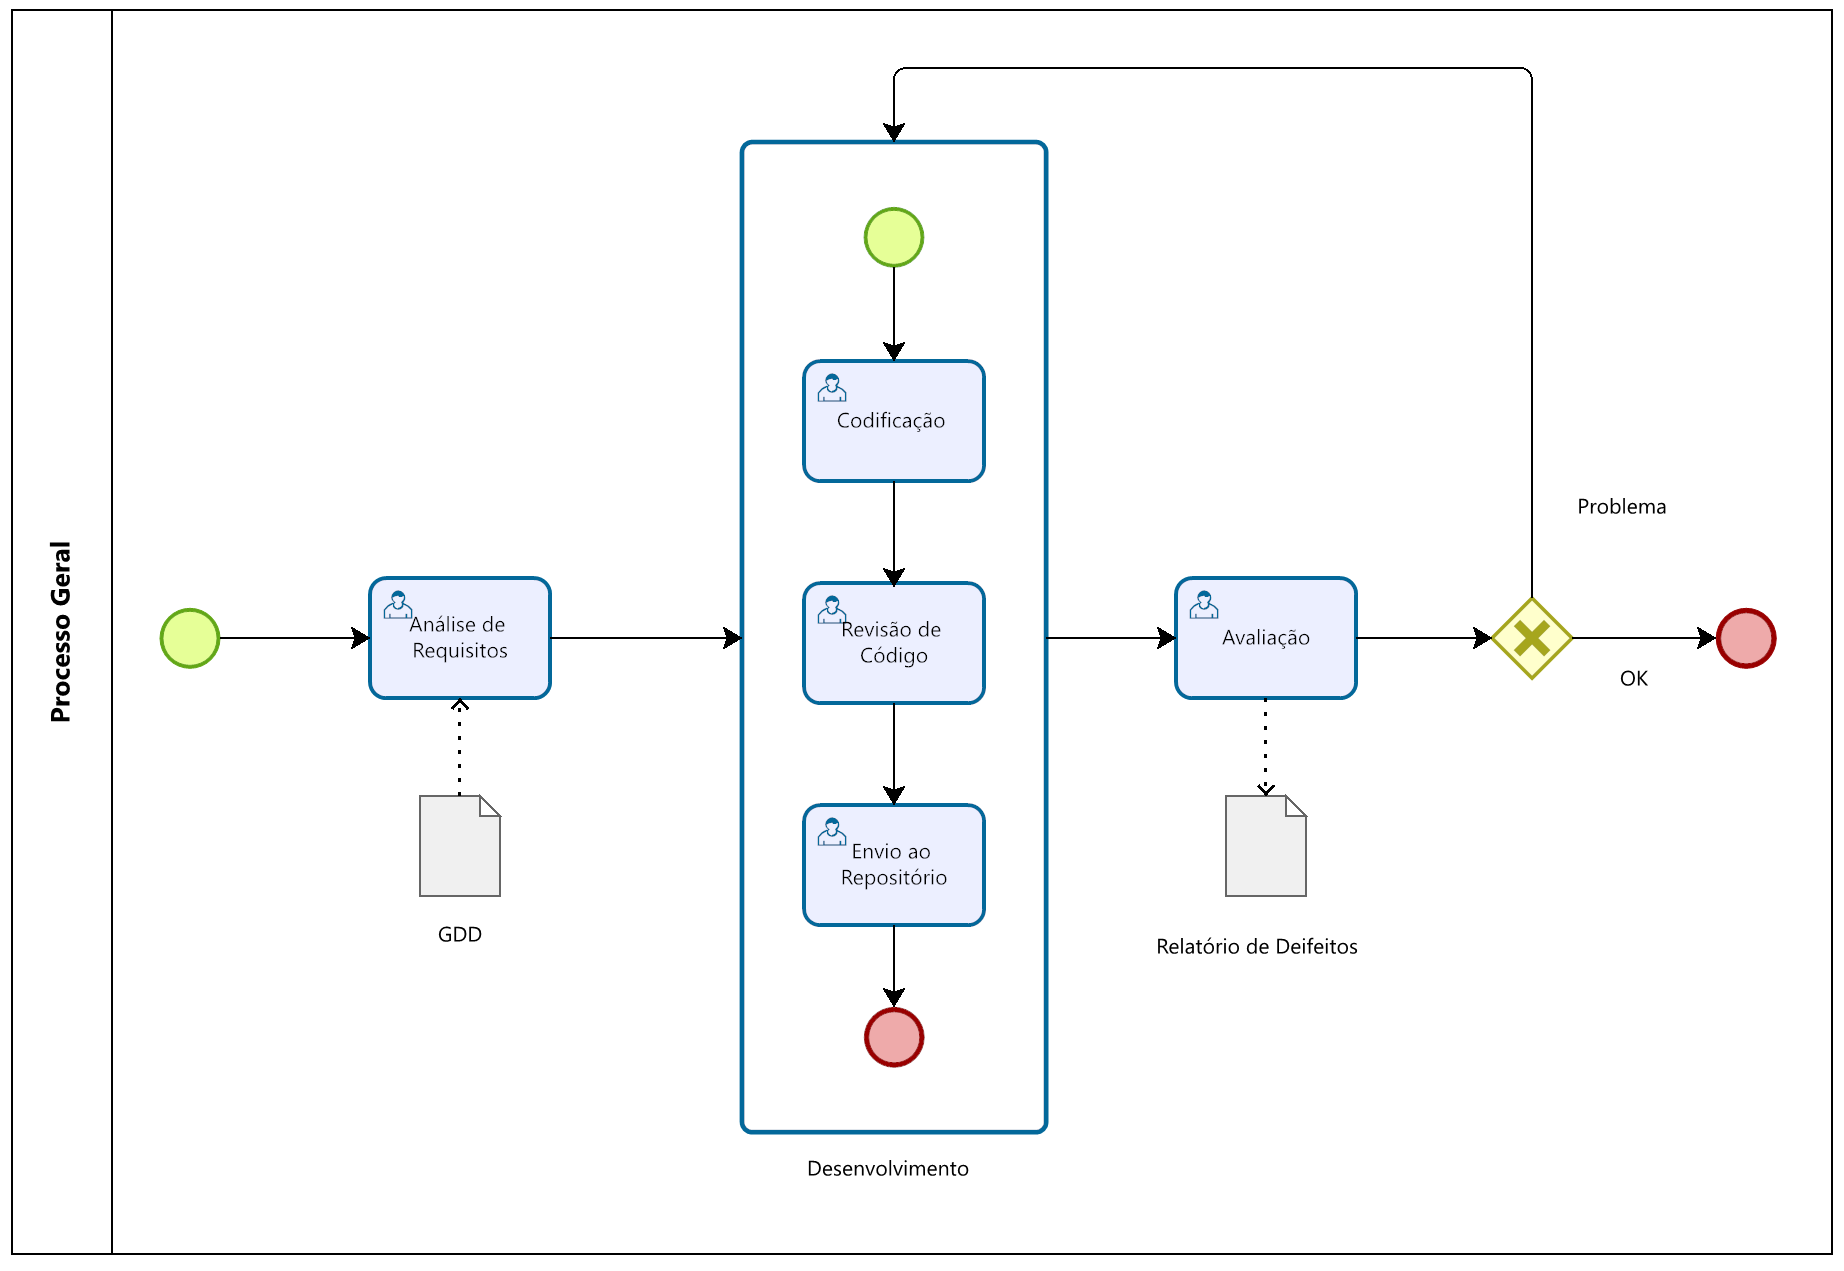
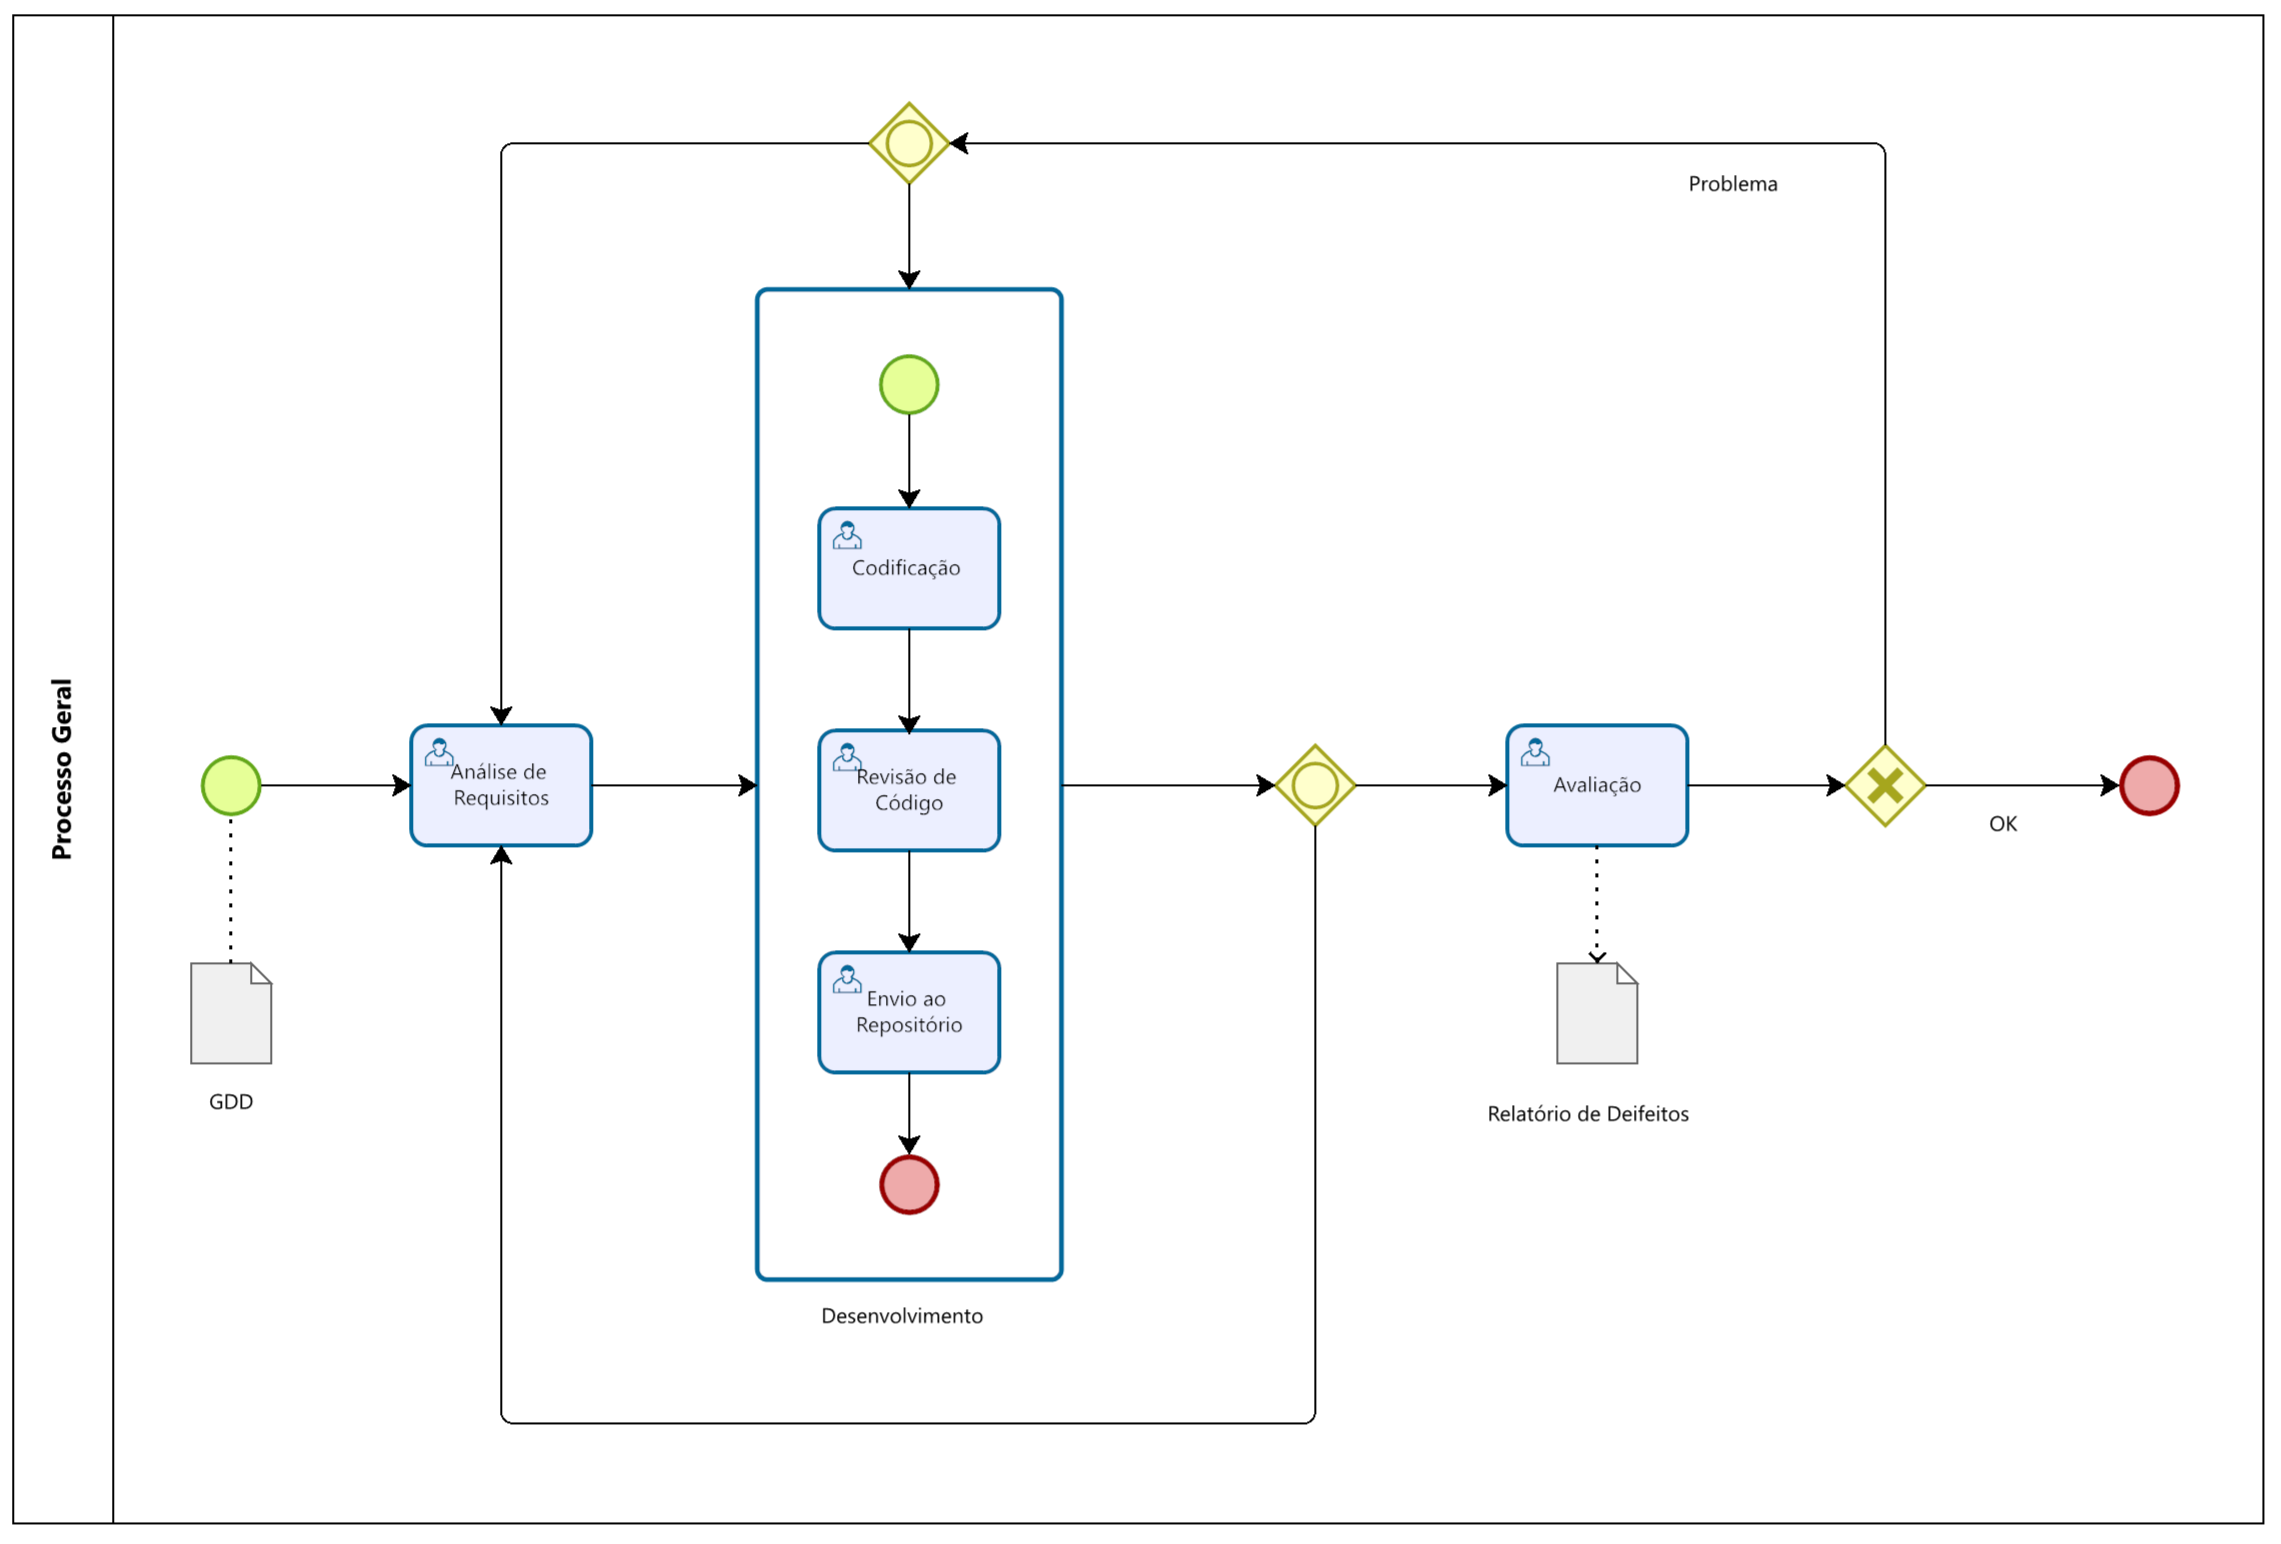
docs: atualizada a documentação do processo de desenvolvimento e o readme principal

diff --git a/docs/processo_desenvolvimento.md b/docs/processo_desenvolvimento.md
@@ -1,52 +1,88 @@
 # Processo de Desenvolvimento
 
-O desenvolvimento do jogo segue um processo iterativo composto pelas seguintes etapas:
+O desenvolvimento do jogo segue um processo iterativo, orientado por feedbacks e voltado à melhoria contínua. As etapas principais estão representadas no diagrama a seguir:
 
 ![Diagrama do Processo](diagramas/processo_geral.png)
 
-**Análise de Requisitos**  
-**Desenvolvimento**  
-**Playtest / Avaliação**
+## Visão Geral
 
-Caso sejam identificados problemas, realiza-se uma etapa de correção, com ajustes de bugs, refinamento de mecânicas e melhorias na experiência do jogador.
+- **Caminho Feliz**: Recebimento do GDD → Análise de Requisitos → Desenvolvimento → Avaliação → OK (fim)
+- **Fluxos Alternativos**:
+  - Após o Desenvolvimento, é possível retornar à Análise de Requisitos, se forem necessárias complementações.
+  - Após a Avaliação, se forem encontrados problemas, um Relatório de Defeitos é gerado e o fluxo pode seguir para o Desenvolvimento (ajuste técnico) ou para a Análise de Requisitos (ajuste conceitual).
 
 ## 1. Análise de Requisitos
 
 A partir do GDD (Game Design Document), são extraídos os requisitos do jogo, incluindo mecânicas principais, objetivos educacionais e assets necessários (imagens, sons, personagens, cenários, etc.).
+
+**Possível retorno**: se após o desenvolvimento ou testes forem percebidas lacunas conceituais, o fluxo pode retornar para esta fase para ajustes.
 
 ## 2. Desenvolvimento
 
 Esta fase compreende a implementação do jogo, dividida em três etapas integradas:
 
 ### 2.1 Codificação
-
 Implementação das funcionalidades com base nas Histórias de Usuário (HU) e nas decisões arquiteturais.
 
-O código deve refletir as intenções de quem vai interagir com o jogo, proporcionando uma experiência coerente com os objetivos educacionais e atendendo aos critérios técnicos definidos.
-
-Além disso, boas práticas de legibilidade, organização e versionamento são aplicadas para facilitar a continuidade do projeto e o onboarding de novos integrantes.
-
-**Produto esperado:** código versionado, limpo e alinhado às decisões arquiteturais.
+**Produto esperado**: código versionado, limpo e alinhado às decisões arquiteturais.
 
 ### 2.2 Revisão de Código
+O código é analisado por outro membro da equipe, promovendo boas práticas e alinhamento técnico.
 
-O código desenvolvido passa por análise de outro membro da equipe, com foco em clareza, boas práticas, consistência e possíveis melhorias.
-
-Essa revisão não tem caráter punitivo, mas sim formativo — é um momento de aprendizado coletivo e alinhamento técnico entre os membros da equipe.
-
-**Produto esperado:** sugestões e comentários registrados na ferramenta de versionamento (ex: GitHub/GitLab).
+**Produto esperado**: comentários registrados na ferramenta de versionamento (ex: GitHub/GitLab).
 
 ### 2.3 Integração ao Repositório
+Após a revisão, o código é integrado ao repositório oficial do projeto, acionando pipelines de build e testes.
 
-Após a revisão, o código é integrado ao repositório oficial do projeto, acionando, quando aplicável, uma pipeline de qualidade com etapas como build, testes e validação contínua.
+**Produto esperado**: integração validada com sucesso.
 
-Essa etapa assegura que o código está tecnicamente pronto para ser avaliado ou incorporado ao jogo de forma segura.
+**Possível retorno**: caso a avaliação final aponte falhas técnicas, o fluxo pode retornar para cá para correções.
 
-**Produto esperado:** código integrado com sucesso e pipeline validada (quando disponível).
+## 3. Avaliação (Playtest)
+
+O jogo é executado com foco na validação da experiência do usuário. São coletados feedbacks da equipe e, quando possível, de usuários reais.
+
+**Produto esperado**: item avaliado e validado.  
+**Possíveis saídas**:
+- Se OK, o processo é encerrado.
+- Se forem encontrados problemas, é gerado um Relatório de Defeitos, e o fluxo pode seguir:
+  - Para o Desenvolvimento (ajustes técnicos)
+  - Para a Análise de Requisitos (problemas conceituais)
+
+## 🧭 Entendendo o Fluxo do Processo
+
+Nosso processo é flexível — ele foi desenhado para apoiar o aprendizado, evitar retrabalho e permitir melhorias constantes no jogo. Para isso, usamos fluxos alternativos que ajudam a voltar etapas quando necessário.
+
+No diagrama acima, você vai notar formas em losango com símbolos dentro. Esses são os chamados gateways, e eles nos ajudam a decidir para onde o fluxo vai.
+
+### 🔘 Inclusivo (OR): mais de uma opção pode acontecer
+
+Exemplo:
+Após a Análise de Requisitos, podemos:
+- seguir para o Desenvolvimento e/ou
+- voltar para complementar requisitos, se algo estiver faltando.
+
+Nesse ponto, mais de uma saída pode ser verdadeira — por isso usamos o OR (círculo).
+
+### ❌ Exclusivo (XOR): só um caminho será seguido
+
+Exemplo:
+Depois da Avaliação, decidimos:
+- se está tudo certo, o processo termina.
+- se tiver algum problema, criamos um relatório de defeitos e voltamos para corrigir.
+
+Aqui, só uma dessas opções vai acontecer — por isso usamos o XOR (um X dentro do losango).
 
 
-## 3. Playtest / Avaliação
+## 🔄 Resumo dos Caminhos
 
-O jogo é executado com foco na validação da experiência do usuário. São coletados feedbacks da equipe de desenvolvimento e, quando aplicável, de usuários externos. Essa etapa permite identificar problemas de jogabilidade, usabilidade e ritmo.
+| Situação                             | Para onde o fluxo vai?                                | Tipo de Decisão |
+|-------------------------------------|--------------------------------------------------------|------------------|
+| Após entender o GDD                 | Vai para Análise de Requisitos                         | (início direto)  |
+| Após Análise de Requisitos          | Vai para Desenvolvimento, ou volta para complementar   | OR               |
+| Após Desenvolvimento                | Vai para Avaliação, ou volta para requisitos (se preciso) | OR            |
+| Após Avaliação                      | Vai para o fim (se OK) ou para correção (Dev ou Requisitos) | XOR         |
 
-Caso sejam encontrados problemas, uma nova iteração é iniciada, retornando à etapa de desenvolvimento.
+---
+
+Esses fluxos garantem que o processo avance com base em decisões conscientes e sustentadas, permitindo melhorias contínuas no jogo de forma colaborativa.

diff --git a/README.md b/README.md
@@ -36,16 +36,15 @@ Antes da adoção do GitFlow, algumas branches foram usadas para estudo e testes
 - `options/`: configurações do projeto.
 - `fonts/`: fontes utilizadas no jogo.
 - `datafiles/`: arquivos auxiliares do GameMaker.
-- `docs/`: **artefatos de documentação**, como:
-  - [`requisitos_proteca.md`](docs/requisitos_proteca.md): requisitos funcionais, não funcionais e de processo.
-  - [`processo_desenvolvimento.md`](docs/processo_desenvolvimento.md): etapas e fluxo do desenvolvimento do jogo.
-  - Diagramas de processo
-  - Relatórios e planejamentos
+- `docs/`: artefatos de documentação.
 
 ## 📝 Documentação
 
 A pasta [`docs/`](./docs) centraliza todos os documentos técnicos e organizacionais do projeto. Destaques:
 
-- O arquivo [`processo_desenvolvimento.md`](docs/processo_desenvolvimento.md) detalha cada fase (requisitos, codificação, playtest, etc.).
-- O arquivo [`requisitos_proteca.md`](docs/requisitos_proteca.md) lista todos os requisitos mapeados a partir do GDD.
 
+- [`GDD - Jogo (v.2.0 2025).md`](docs/GDD%20-%20Jogo%20(v.2.0%202025).md): versão atual do Game Design Document.
+- [`git_recomendacoes.md`](docs/git_recomendacoes.md): diretrizes de uso do Git e práticas recomendadas para versionamento no projeto.
+- [`processo_desenvolvimento.md`](docs/processo_desenvolvimento.md): descreve o fluxo de trabalho adotado pela equipe, incluindo o diagrama BPMN, as etapas de análise, desenvolvimento, avaliação e os fluxos alternativos.
+- [`requisitos/`](docs/requisitos): contém os requisitos do jogo mapeados a partir do GDD.
+- [`diagramas/`](docs/diagramas): contém os diagramas de processo, arquitetura ou apoio visual utilizados na documentação do projeto.
